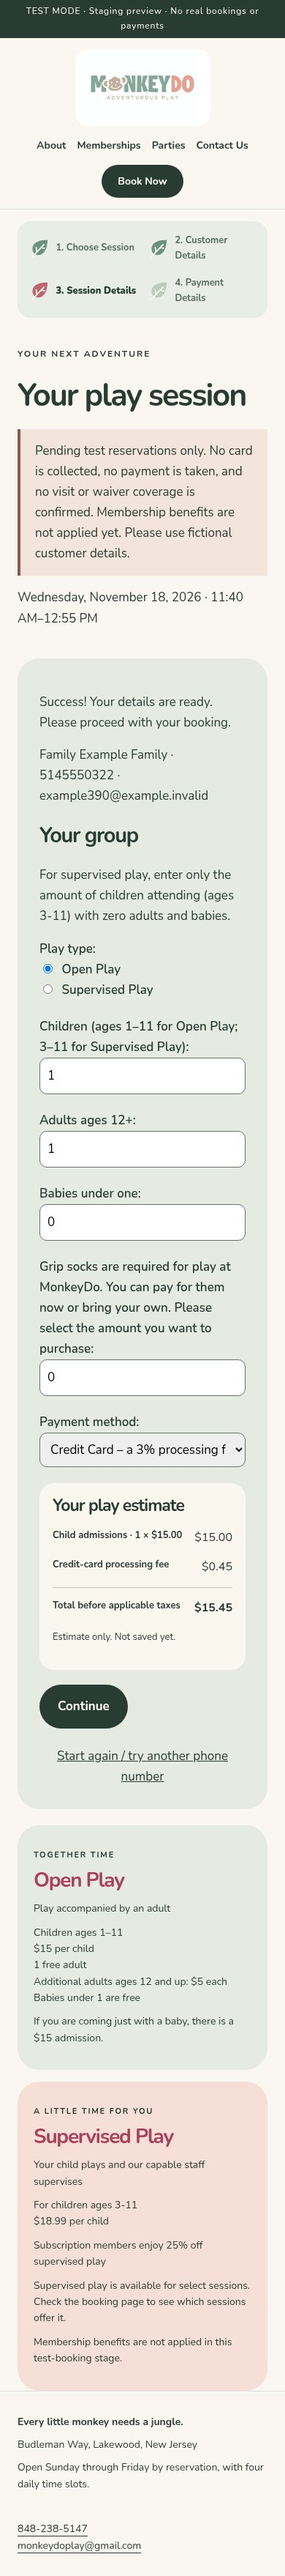
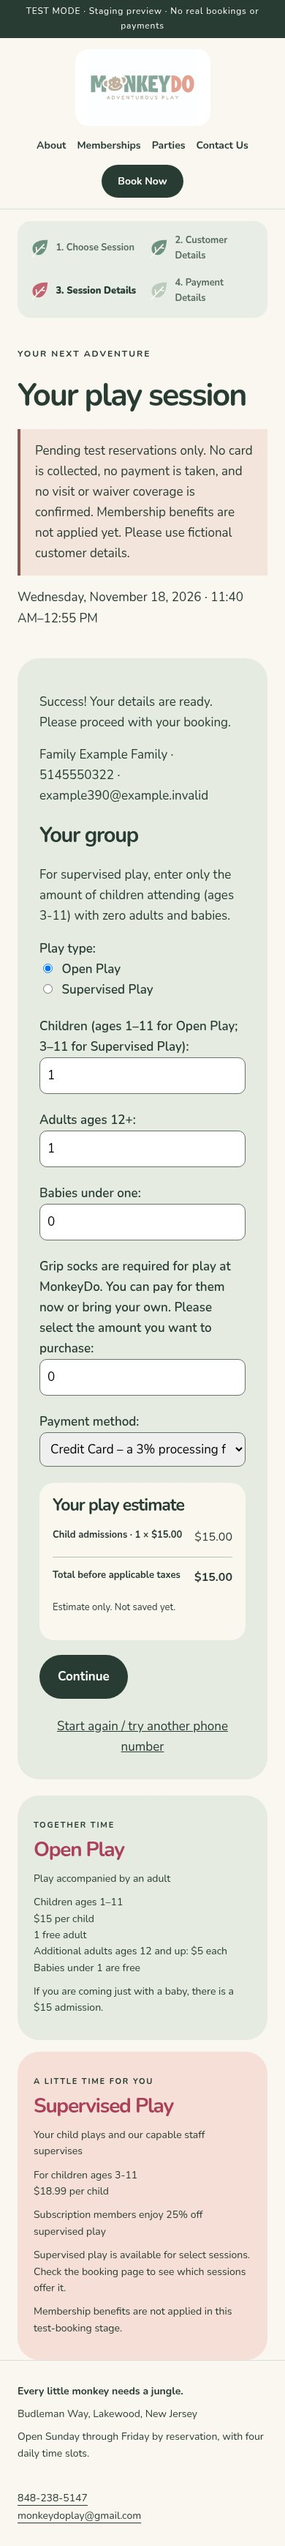
Lower live estimate and show base item subtotal only

diff --git a/templates/core/customer_booking.html b/templates/core/customer_booking.html
@@ -10,7 +10,7 @@
 {% if flow.stage == 'retry_phone' %}<h2>Let's try another number</h2><p>No customer was found with {{ flow.phone }}. Did you use a different phone number for a previous booking?</p>{% endif %}
 {% if flow.stage == 'contact' or flow.stage == 'retry_phone' %}<p role="status">You can continue below as a new customer, <a href="{% url 'customer_booking' %}?restart=1">go back</a> to try another number, <a href="{% url 'customer_email_recovery' %}">enter an email address</a> to find your customer profile, or call/text us at 848-238-5147 for assistance.</p>{% endif %}
 {% if flow.new_contact_ready and flow.stage == 'details' %}<p role="status">Success! Your details are ready. Please proceed with your booking.</p>{% endif %}
-{% if flow.stage == 'email_lookup' %}<p role="status">You can try finding your customer profile by entering your email address.</p><h2>Find your customer details</h2>{% endif %}
+{% if flow.stage == 'email_lookup' %}<p role="status">{% if flow.recovery_notice %}{{ flow.recovery_notice }} {% endif %}You can try finding your customer profile by entering your email address.</p><h2>Find your customer details</h2>{% endif %}
 {% if flow.stage == 'previous' %}<p>Looks like you've been to Monkey Do in the past. We found a customer record with your number, along with an updated number of {{ flow.current_phone }}. Please confirm if this is your phone number.</p>{% endif %}
 {% if customer %}{% if flow.stage != 'review' %}{% if flow.verification_mode == 'previous' %}<p>Please go ahead with your booking.</p>{% elif flow.verification_mode == 'name_confirm' %}<p>Your name confirmation was saved. Please go ahead with your booking.</p>{% elif flow.verification_mode == 'email_confirm' %}<p>Your details match our records. Let’s continue with your booking.</p>{% else %}<p>That name matches our records. Let’s continue with your booking.</p>{% endif %}{% endif %}<p>Family {{ customer.last_name }} · {{ customer.phone }}{% if customer.email %} · {{ customer.email }}{% endif %}</p>{% elif flow.contact %}<p>Family {{ flow.contact.last_name }} · {{ flow.phone }} · {{ flow.contact.email }}</p>{% endif %}
 {% if flow.stage == 'email' %}<h2>Add your email address</h2><p>Your customer record doesn’t have an email address yet. Please enter one to continue.</p>{% endif %}

diff --git a/templates/core/partials/live_quote.html b/templates/core/partials/live_quote.html
@@ -1,1 +1,1 @@
-{% if data %}<dl class="quote-items">{% for line in data.lines %}<div><dt>{{ line.label }} · {{ line.quantity }} × ${{ line.unit_price }}</dt><dd>${{ line.amount }}</dd></div>{% endfor %}{% if data.processing_fee != '0.00' %}<div><dt>Credit-card processing fee</dt><dd>${{ data.processing_fee }}</dd></div>{% endif %}<div class="quote-total"><dt>Total before applicable taxes</dt><dd>${{ data.pretax_total }}</dd></div></dl>{% else %}<p>Enter your group details to see an estimate.</p>{% endif %}
+{% if data %}<dl class="quote-items">{% for line in data.lines %}<div><dt>{{ line.label }} · {{ line.quantity }} × ${{ line.unit_price }}</dt><dd>${{ line.amount }}</dd></div>{% endfor %}<div class="quote-total"><dt>Total before applicable taxes</dt><dd>${{ data.subtotal }}</dd></div></dl>{% else %}<p>Enter your group details to see an estimate.</p>{% endif %}

diff --git a/static/core/site.css b/static/core/site.css
@@ -904,7 +904,7 @@ input[type="checkbox"],input[type="radio"] { width:auto; padding:0; margin-right
 .with-play-info .customer-booking-form { max-width:none; min-width:0 }
 .public-details-layout { display:grid; grid-template-columns:minmax(0,1fr) minmax(220px,.85fr); gap:24px; align-items:start }
 .public-details-layout>.button { grid-column:1 / -1; justify-self:start }
-.live-booking-estimate { padding:18px; border-radius:20px; background:#faf7ef; align-self:center; position:static; min-width:0 }
+.live-booking-estimate { padding:18px; border-radius:20px; background:#faf7ef; align-self:end; position:static; min-width:0 }
 .live-booking-estimate h3 { margin:0 0 14px; font-size:23px }
 .live-booking-estimate .quote-items div { gap:12px }
 .live-booking-estimate dd { white-space:nowrap }

diff --git a/tests/test_owner_feedback_batch_three.py b/tests/test_owner_feedback_batch_three.py
@@ -287,6 +287,9 @@ class PublicThirdBatchTests(TestCase):
         response = self.client.post("/book/details/", {"last_name": "Different"})
         self.assertNotContains(response, 'name="last_name"')
         self.assertContains(
+            response, "We couldn&#x27;t match that name to the entered phone number."
+        )
+        self.assertContains(
             response, "You can try finding your customer profile by entering your email address."
         )
         self.client.post("/book/details/", {"email": c.email})
@@ -347,11 +350,18 @@ class PublicThirdBatchTests(TestCase):
         self.assertEqual(response.status_code, 200)
         self.assertIn("Total before applicable taxes", response.json()["html"])
         self.assertNotIn("Sales tax", response.json()["html"])
+        self.assertNotIn("Credit-card processing fee", response.json()["html"])
+        self.assertIn("$31.99", response.json()["html"])
+        cash_response = self.client.post("/book/estimate/", data | {"expected_method": "cash"})
+        self.assertEqual(cash_response.json()["html"], response.json()["html"])
         self.assertFalse(Booking.objects.exists())
         self.assertFalse(Customer.objects.exists())
         self.assertEqual(self.client.session["customer_test_booking"], original)
         self.client.post("/book/details/", data)
-        self.assertContains(self.client.get("/book/details/"), "Sales tax")
+        final = self.client.get("/book/details/")
+        self.assertContains(final, "Sales tax")
+        self.assertContains(final, "Credit-card processing fee")
+        self.assertContains(final, "$0.96")
 
     def test_new_customer_notice_does_not_claim_early_persistence(self):
         self.begin("5145550199", "yes")

diff --git a/core/public_booking_views.py b/core/public_booking_views.py
@@ -409,7 +409,7 @@ def wizard(request):
                     save(request, flow)
                     recovery = EmailRecoveryForm()
                     flow["recovery_notice"] = (
-                        "You can try finding your customer profile by entering your email address."
+                        "We couldn't match that name to the entered phone number."
                     )
                     save(request, flow)
                     return display(request, flow, form=recovery)
@@ -560,13 +560,10 @@ def initial_live_quote(form, flow):
     )
     candidate = DetailsForm(values, session=public_session(flow["session_id"]))
     if candidate.is_valid():
-        from decimal import Decimal
-
         try:
             quote = review_quote(flow, candidate.cleaned_data)
         except ValidationError:
             return None
-        quote["pretax_total"] = str(Decimal(quote["subtotal"]) + Decimal(quote["processing_fee"]))
         return quote
     return None
 
@@ -575,7 +572,6 @@ def initial_live_quote(form, flow):
 @sensitive_post_parameters("phone", "last_name", "email")
 @require_POST
 def live_estimate(request):
-    from decimal import Decimal
 
     from django.http import JsonResponse
     from django.template.loader import render_to_string
@@ -594,7 +590,6 @@ def live_estimate(request):
                 status=400,
             )
         quote = review_quote(flow, form.cleaned_data)
-        quote["pretax_total"] = str(Decimal(quote["subtotal"]) + Decimal(quote["processing_fee"]))
         return JsonResponse(
             {
                 "html": render_to_string(

diff --git a/docs/MONKEYDO_REQUIREMENTS.md b/docs/MONKEYDO_REQUIREMENTS.md
@@ -106,7 +106,7 @@ Collect Last Name, phone, email, date/session, baby/child/adult quantities, calc
 
 Validate in browser and server: required fields/consent, nonnegative integer counts, nonzero attendance, adult rule where applicable, card setup unless owner-comped, availability/end time, capacity and permissions. Online waiver must be covered before booking completes; admin/phone bookings may confirm pending.
 
-The visible public progress indicator has four steps: Choose Session, Customer Details, Session Details, Payment Details. Expected payment-method selection stays in Session Details; the breakdown and final reviewed save action live in Payment Details, without a separate visible Review step. Show completion afterward. Add a waiver step only when the approved waiver workflow is implemented. Show an itemized calculation before confirmation. Public Session Details has a read-only live estimate labelled Total before applicable taxes, placed lower beside the attendee fields rather than alongside the initial play-type instructions, including any applicable card fee but omitting tax; final Payment Details shows the complete tax-inclusive breakdown. Stack compact Open/Supervised information cards without booking buttons outside the form on desktop and below it on phones. Save immutable price/tax/fee/policy snapshots; an authorized edit creates a new revision with before/after audit, not silent rewriting of the original. Future owner pricing/settings do not alter accepted existing bookings or cohort prices.
+The visible public progress indicator has four steps: Choose Session, Customer Details, Session Details, Payment Details. Expected payment-method selection stays in Session Details; the breakdown and final reviewed save action live in Payment Details, without a separate visible Review step. Show completion afterward. Add a waiver step only when the approved waiver workflow is implemented. Show an itemized calculation before confirmation. Public Session Details has a read-only live estimate labelled Total before applicable taxes, placed low beside the socks/payment-method fields rather than alongside the upper attendee fields or outside play-information cards. The live estimate shows only admissions/adults/socks and their base subtotal, excluding both card-processing fees and tax from its rows and total; final Payment Details shows the complete fee/tax-inclusive breakdown. Stack compact Open/Supervised information cards without booking buttons outside the form on desktop and below it on phones. Save immutable price/tax/fee/policy snapshots; an authorized edit creates a new revision with before/after audit, not silent rewriting of the original. Future owner pricing/settings do not alter accepted existing bookings or cohort prices.
 
 ## 7. Customers and public identification
 
@@ -120,7 +120,7 @@ The visible public progress indicator has four steps: Choose Session, Customer D
 
 1. Ask whether the customer has visited before. Search current and previous phone fields. New-customer entry also silently searches after phone entry.
 2. For a new customer, silently search the supplied phone and continue new booking if unmatched. For a returning customer whose phone is unmatched, show the entered number and offer another/prior-number attempt or Continue as a new customer. If the alternative number is unmatched, continue the new-customer flow with a clear explanation and a way to start again.
-3. Permit the approved spelling differences and meaningful partial/individual-word names only against the phone-selected customer, or the exact current-email-selected customer during recovery. Show **We found a customer “[LastName]” for phone [entered number]. Is this you?** with Continue as the confirmation action; no additional checkbox. Preserve the stored spelling. Backend suggestions across Customers, Today/Bookings and booking/membership pickers rank exact/direct matches before clearly marked possible word/spelling matches, including Brawn versus Braun Customer and bnot versus bnos miriam. Test customer/customir and Zorger/Zarger/Zharger/Zorge. On a current-number match, including a supposedly new customer, say: **Looks like you've been to Monkey Do in the past. We found a customer profile with the phone number you entered — [entered number]. For verification, please enter your last name.** On success: **That name matches our records. Let’s continue with your booking.** Show this at verification/session details, without repeating it on Payment Details. Associate only after verification. On failure: **The last name you entered doesn't match the name on record for this number. We would love to get your booking done for you as soon as possible. Please call or text 848-238-5147 and we'll help you with it.** If phone/name matching fails, offer an email-only entry screen and reuse the phone already supplied: the current email and phone must identify the same customer before revealing their family name and requesting confirmation. Do not ask for the surname again. If no phone record was found, an already-entered surname may instead supply the second matching detail; do not disclose a profile from email alone or accept a forged new surname on the recovery submission. Historical-only addresses do not identify a customer; keep the saved phone unchanged. Retain call/text assistance and request throttling. This supersedes the earlier phone-only stop rule.
+3. Permit the approved spelling differences and meaningful partial/individual-word names only against the phone-selected customer, or the exact current-email-selected customer during recovery. Show **We found a customer “[LastName]” for phone [entered number]. Is this you?** with Continue as the confirmation action; no additional checkbox. Preserve the stored spelling. Backend suggestions across Customers, Today/Bookings and booking/membership pickers rank exact/direct matches before clearly marked possible word/spelling matches, including Brawn versus Braun Customer and bnot versus bnos miriam. Test customer/customir and Zorger/Zarger/Zharger/Zorge. On a current-number match, including a supposedly new customer, say: **Looks like you've been to Monkey Do in the past. We found a customer profile with the phone number you entered — [entered number]. For verification, please enter your last name.** On success: **That name matches our records. Let’s continue with your booking.** Show this at verification/session details, without repeating it on Payment Details. Associate only after verification. On failure: **The last name you entered doesn't match the name on record for this number. We would love to get your booking done for you as soon as possible. Please call or text 848-238-5147 and we'll help you with it.** If phone/name matching fails, offer an email-only entry screen and reuse the phone already supplied: the current email and phone must identify the same customer before revealing their family name and requesting confirmation. Do not ask for the surname again. In the failed-name case retain We couldn’t match that name to the entered phone number. Follow it with You can try finding your customer profile by entering your email address. Do not falsely show the failed-name sentence when recovery was opened directly without a name mismatch. If no phone record was found, an already-entered surname may instead supply the second matching detail; do not disclose a profile from email alone or accept a forged new surname on the recovery submission. Historical-only addresses do not identify a customer; keep the saved phone unchanged. Retain call/text assistance and request throttling. This supersedes the earlier phone-only stop rule.
 4. On a previous-number match, show full current phone: **Looks like you've been to Monkey Do in the past. We found a customer record with your number, along with an updated number of [current phone]. Please confirm if this is your phone number.** Yes is sufficient for this branch; do not add an unapproved second last-name check. No: **We would love to get your booking finalized as soon as possible. Please call/text 848-238-5147 for assistance with this booking.** Owner explicitly chose this full-number disclosure.
 5. Link internally to the same account and use current contact information without unnecessary repeated entry. Do not expose prior booking history, minor names or other private history in the lookup.
 6. All customers see booking success and the destination email with an Update email address option. No emailed verification code was requested for that change.

diff --git a/docs/OWNER_EDITS_BATCH_3.md b/docs/OWNER_EDITS_BATCH_3.md
@@ -30,7 +30,7 @@ previous approved release. [Desktop and phone JPG gallery](design-review/owner-e
 | 16 | Approved new-customer continuation wording and go back link retain the selected session. | 23 |
 | 17 | Success! Your details are ready. Please proceed with your booking. Customer/booking still save atomically at final submission. | 24 |
 | 18 | Exact current email plus tolerant surname recovery on unmatched phone or failed phone-selected surname, then family confirmation. No historical-email identification, profile rename, phone rewrite, unrelated public suggestions or merge. | 25–26 |
-| 19 | Read-only live itemized estimate inside Session Details, including applicable card fee, no displayed tax and Total before applicable taxes. Final Payment Details retains tax. | 27–28 |
+| 19 | Read-only live itemized estimate low beside socks/payment-method fields, showing the base item subtotal only, without card fee or tax. Final Payment Details retains the applicable card fee and tax. | 27–28 |
 | 20 | Compact shared Open/Supervised information cards outside the form; no duplicate booking buttons; phone stack below form. | 27 |
 | Homepage | Compact 2×2 About areas and smaller play-card images/spacing on Home; standalone About layout and approved masters retained; play buttons remain aligned. | 01–03 |
 
@@ -141,3 +141,25 @@ with the mobile order unchanged. Chromium verifies its lower position and the
 one-field recovery/phone-email confirmation at 1440px and 390px; screens 24–27
 were refreshed. The affected 30 public-booking/recovery tests passed, including
 new disclosure/refusal cases. The full PostgreSQL regression suite passed: 400 tests. Staging remains unchanged and image approval still precedes PR/deploy.
+
+
+## Further image-review adjustment — item-only estimate and restored lead-in
+
+Owner requested the estimate even lower and no card-processing fee in that
+estimate. The desktop panel is now bottom-aligned beside socks/payment method;
+mobile remains after the inputs. Its rows and displayed total include only base
+items (admissions, additional adults and socks). Card choice no longer changes
+that live subtotal. The next Payment Details page and saved/staff quotes retain
+their existing card-fee/tax calculations and full total. The payment-method
+selector's previously approved percentage information remains separate.
+
+After failed surname verification, restore the original first sentence, followed
+by the owner's revised second sentence: We couldn't match that name to the
+entered phone number. You can try finding your customer profile by entering your
+email address. Direct email navigation without a name mismatch does not falsely
+claim one. The form still asks only for email and reuses earlier matching details.
+
+Thirty affected PostgreSQL tests passed, including equality of card/cash live
+subtotals and fee/tax preservation on final Payment Details. Browser screenshots
+24/25/27 were refreshed for desktop and phone; 26 was rechecked. No new migration,
+PR or staging deployment was performed.

diff --git a/docs/design-review/owner-edits-batch-3/README.md b/docs/design-review/owner-edits-batch-3/README.md
@@ -69,4 +69,6 @@ Screen 16 now shows the actual new-session default: **Closed for reservation is 
 
 Screen 23 now consolidates phone retry and email recovery into the introductory paragraph, with both actions as inline links. Duplicate actions below the form were removed.
 
-Screens 24–27 were refreshed after review: the estimate sits lower beside attendee inputs, and email recovery asks only for email, reusing the phone already entered. It reveals the family after both match, without asking for the name again.
+Screens 24–27 were refreshed after review: the estimate sits low beside socks/payment-method inputs and excludes card fees as well as tax, and email recovery asks only for email, reusing the phone already entered. It reveals the family after both match, without asking for the name again.
+
+Latest review: screens 24/27 show the still-lower item-only estimate; screen 25 restores the failed-name first sentence before the revised email-search sentence. Final Payment Details continues to show the applicable fee and tax.

diff --git a/docs/CUSTOMER_BOOKING_DEVELOPMENT.md b/docs/CUSTOMER_BOOKING_DEVELOPMENT.md
@@ -112,3 +112,14 @@ the originally mismatched surname was accepted.
 The desktop live estimate is vertically centered lower beside the attendee
 fields instead of starting next to Play type. Its narrow-screen placement after
 the fields is unchanged. Screens 24–27 were refreshed where affected.
+
+
+## Final estimate presentation clarification
+
+The live estimate is now low beside socks/payment method on desktop and omits
+both processing fees and tax from its rows and total, displaying the base item
+subtotal. Final Payment Details and saved quotes keep their full fee/tax totals;
+payment-choice percentage information remains. The failed-name recovery notice
+retains its original first sentence before the revised email-search sentence,
+while direct recovery omits an inapplicable failed-name claim. The repeated name
+field remains absent.
